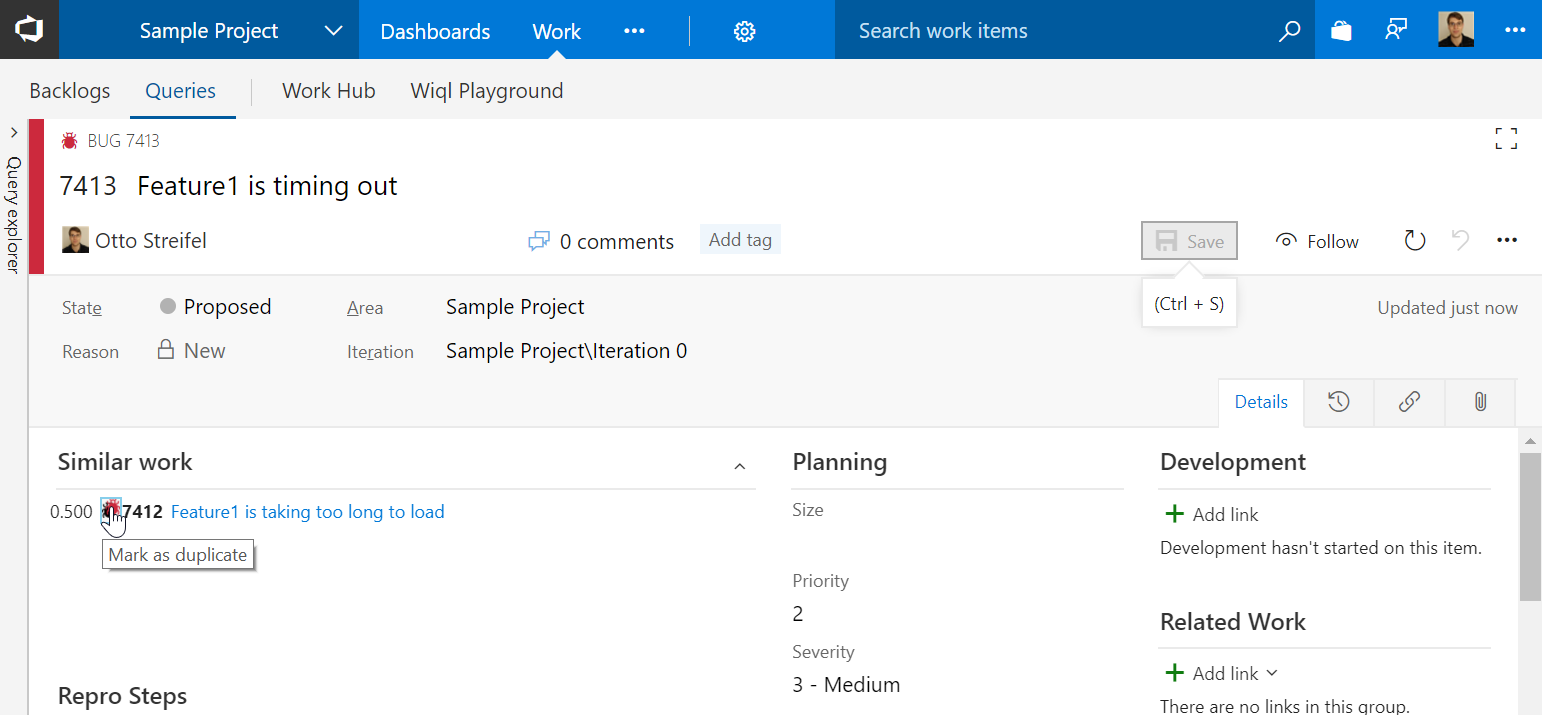
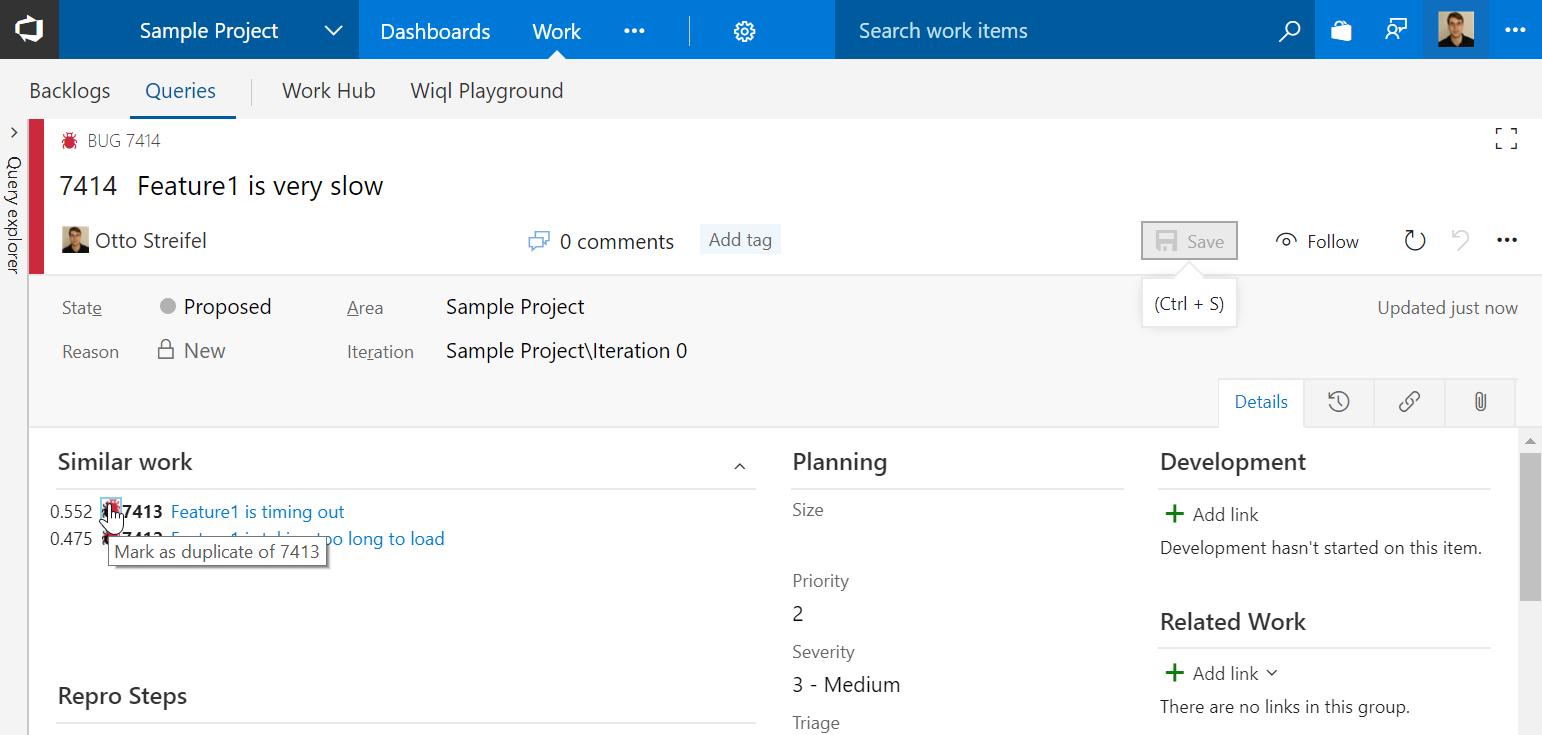
Use duplicate of instead of duplicate

diff --git a/scripts/duplicatesView.tsx b/scripts/duplicatesView.tsx
@@ -17,7 +17,7 @@ class WorkItemMatch extends React.Component<{workitem: WorkItem, refresh: () => 
         const wiUrl = `${uri}${project}/_workitems?id=${wi.id}&_a=edit&fullScreen=true`;
         return <div className="workitem">
             <span>{(wi.fields.score as number).toFixed(3)}</span>
-            <button className="dup-bug-action" title="Mark as duplicate" onClick={() => this.add()}>
+            <button className="dup-bug-action" title={`Mark as duplicate of ${wi.id}`} onClick={() => this.add()}>
                 <img src="img/dupBug.png"/>
             </button>
             <span className="id">{wi.id}</span>

diff --git a/scripts/markDuplicate.ts b/scripts/markDuplicate.ts
@@ -27,10 +27,10 @@ function getDuplicateLinks(): Q.IPromise<WorkItemRelation[]> {
 }
 
 export function addDuplicate(targetUrl: string): Q.IPromise<void> {
-    trackEvent("markDuplicate");
+    trackEvent("markDuplicateOf");
     return WorkItemFormService.getService().then((formService) =>
         formService.addWorkItemRelations([{
-            rel: duplicate,
+            rel: duplicateOf,
             attributes: {
                 comment: "Detected by the Duplicate Bug extension",
             },

diff --git a/duplicatesGroup.html b/duplicatesGroup.html
@@ -17,7 +17,11 @@
 </script>
 </head>
 <body>
-    <div class=results>Loading javascript...</div>
+    <div class="results">
+        <div class="loading">
+            Loading recent work items...
+        </div>
+    </div>
     <script type="text/javascript">
         // Initialize framework 
         VSS.init({

diff --git a/details.md b/details.md
@@ -1,9 +1,9 @@
 As soon as fields are filed out on a new workitem suggested duplicates will be shown. These suggestions will also be shown for existing work items.  
 ![filing out workitem](img/filingBug.png)  
-Mark the suggested work items as duplicates  
+Select the work item that the current one duplicates  
 ![marking as duplicate](img/markDuplicate.png)  
-Save the duplicate link  
-![save workitem](img/markDuplicate.png)  
+Update any other fields and save the work item. 
+![save work item](img/markedDuplicate.png)   
 
 # Change Log
 (07/24/2017) 1.0.0 Initial Release  
